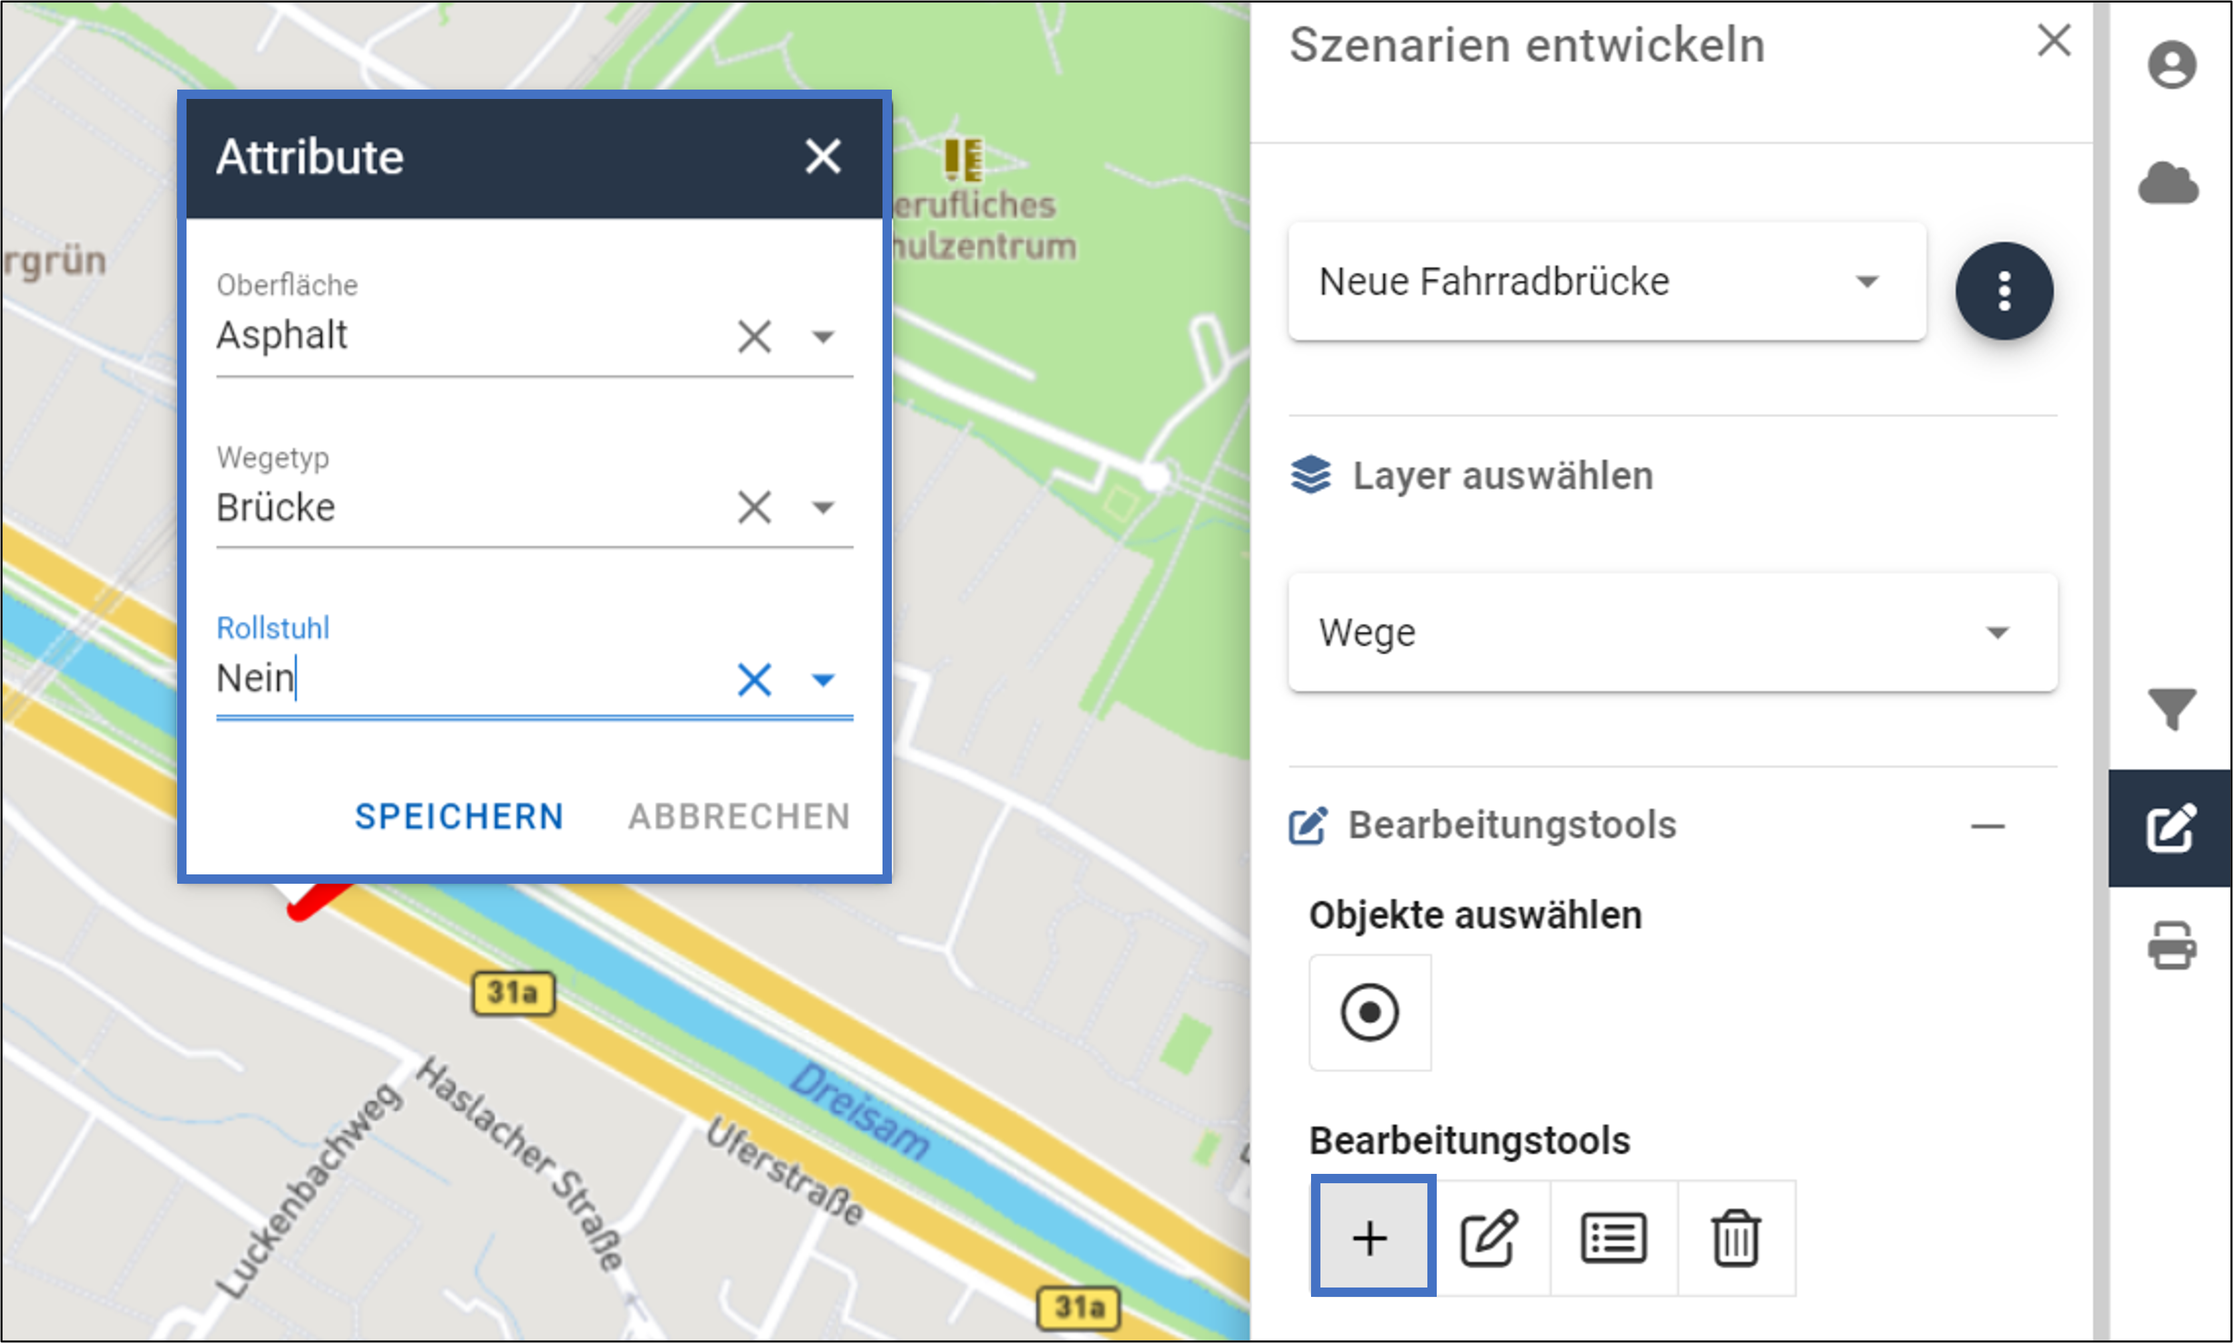
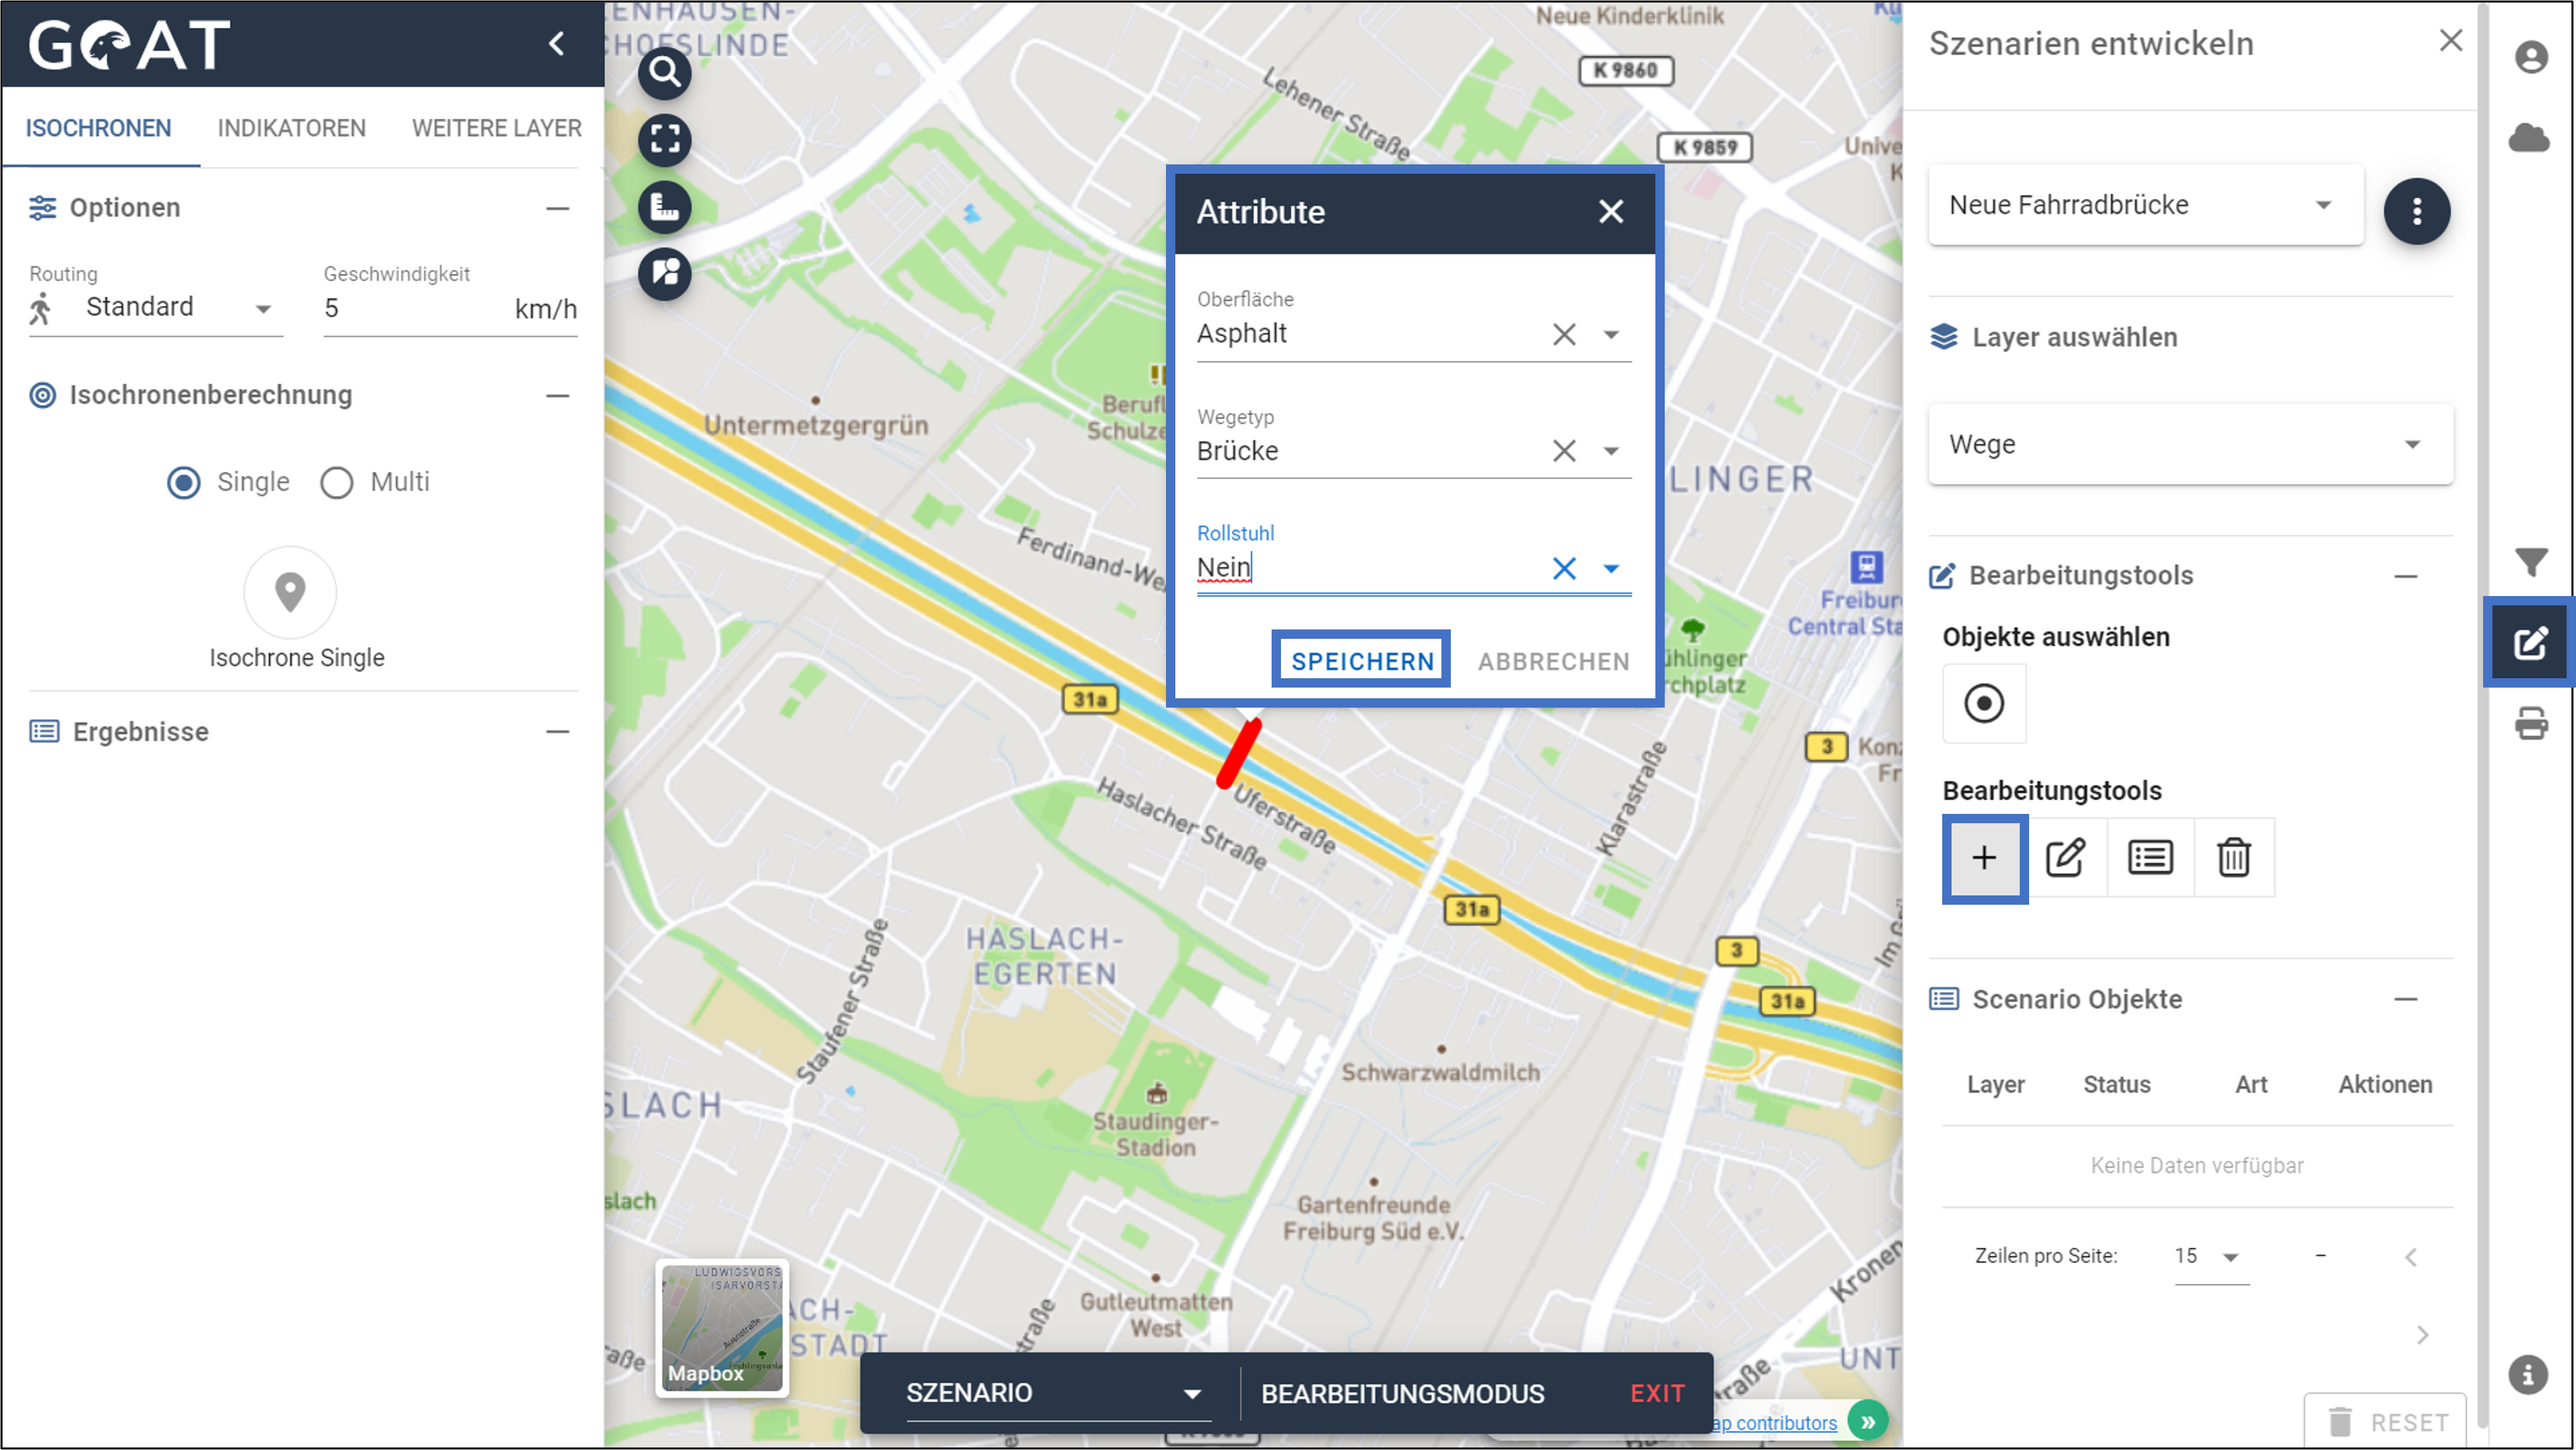
updated scenario ways screenshots

diff --git a/content/de/tutorials/scenario-ways.md b/content/de/tutorials/scenario-ways.md
@@ -53,4 +53,4 @@ Wie verändert sich die Erreichbarkeit durch den Bau einer neuen Fahrradbrücke 
 
 8. Platzieren Sie den Startpunkt für die Isochronenberechnung in der Nähe der neuen Brücke. Als Ergebnis wird Ihnen eine Isochrone im Ist-Zustand und eine Isochrone unter Berücksichtigung der neuen Wegeverbindung angezeigt. Der Ergebnistabelle können Sie die jeweilige Einwohnerzahl innerhalb der Isochrone entnehmen.
 
-<img src="/images/tutorials/Scenario_building/scenario_ways_8_output_de.webp"  alt="Result" />
+<img src="/images/tutorials/Scenario_building/Scenarios_ways_1.2.8_de.webp"  alt="Result" />

diff --git a/content/en/tutorials/scenario-ways.md b/content/en/tutorials/scenario-ways.md
@@ -53,4 +53,4 @@ How does the construction of a new bicycle bridge across the river change access
 
 8. Place the starting point for the isochrone calculation near the new bridge. As a result you will see one isochrone showing the actual state and one isochrone considering the new path connection. The result table shows the respective number of inhabitants within the isochrone.
 
-<img src="/images/tutorials/Scenario_building/scenario_ways_8_output_eng.webp"  alt="Result" />
+<img src="/images/tutorials/Scenario_building/Scenarios_ways_1.2.8_eng.webp"  alt="Result" />
